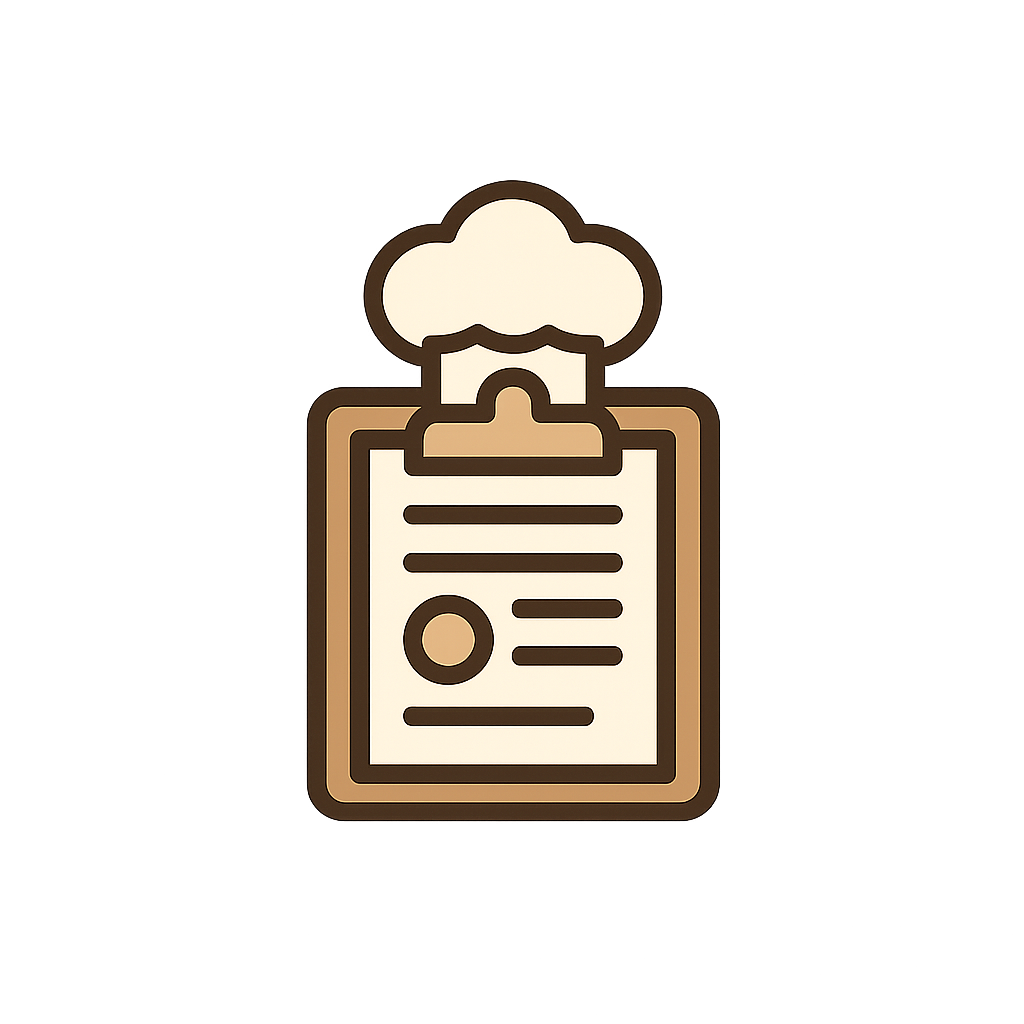
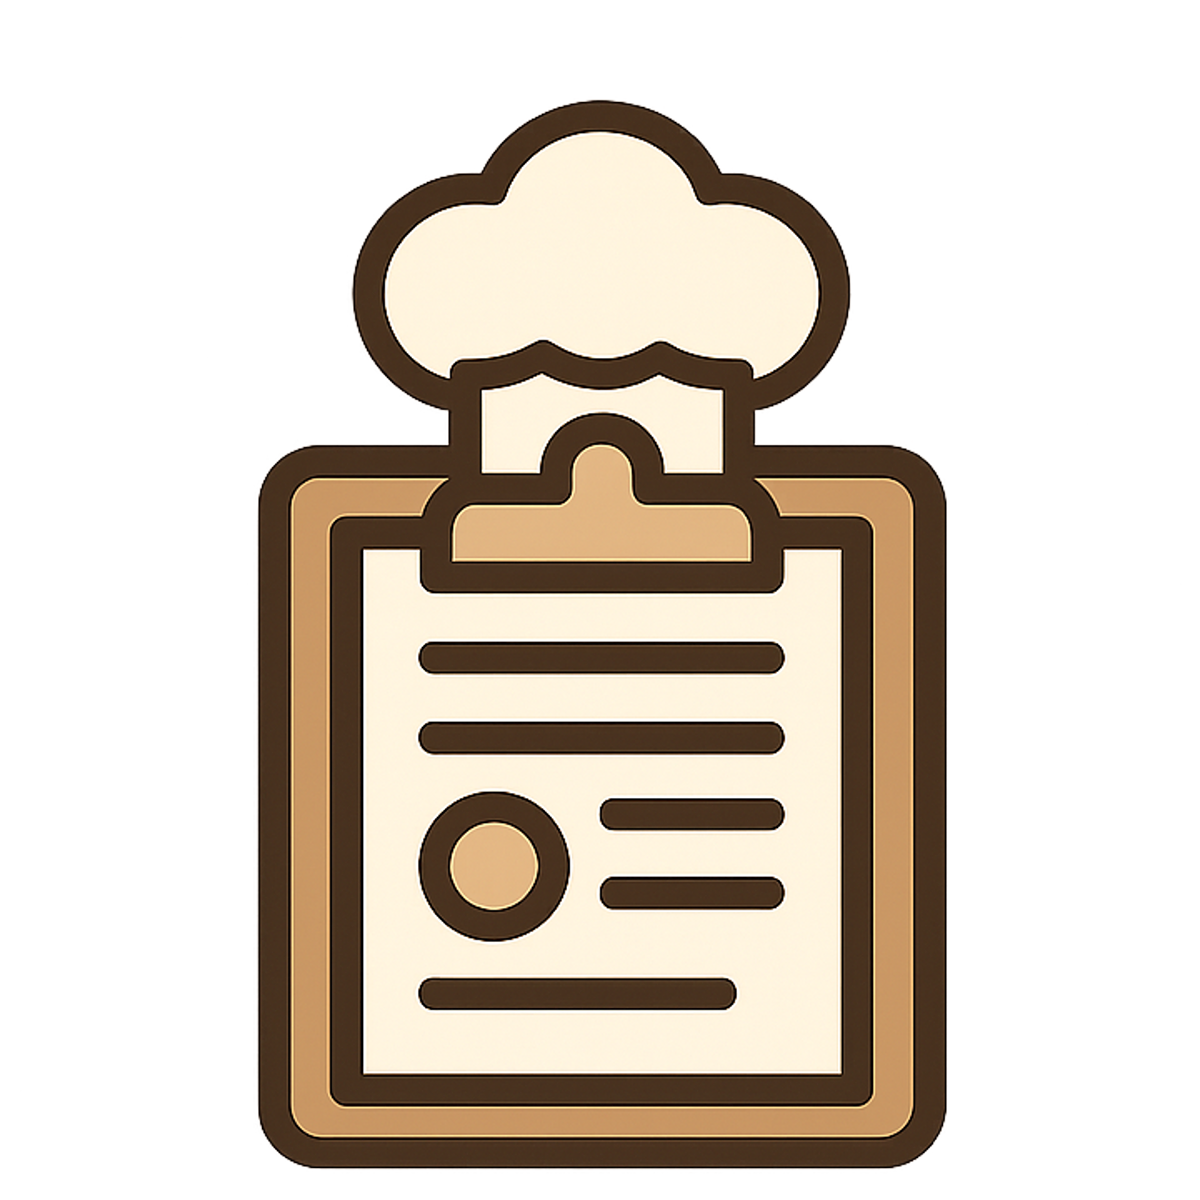
Increase share preview image size

diff --git a/share/index.html b/share/index.html
@@ -11,8 +11,8 @@
     <meta property="og:description" content="Open shared recipes directly in KitchenClips." />
     <meta property="og:url" content="https://kitchenclips.org/share" />
     <meta property="og:image" content="https://kitchenclips.org/share/share-preview.png" />
-    <meta property="og:image:width" content="1024" />
-    <meta property="og:image:height" content="1024" />
+    <meta property="og:image:width" content="1200" />
+    <meta property="og:image:height" content="1200" />
     <meta name="twitter:card" content="summary_large_image" />
     <meta name="twitter:title" content="KitchenClips Recipe Share" />
     <meta name="twitter:description" content="Open shared recipes directly in KitchenClips." />
